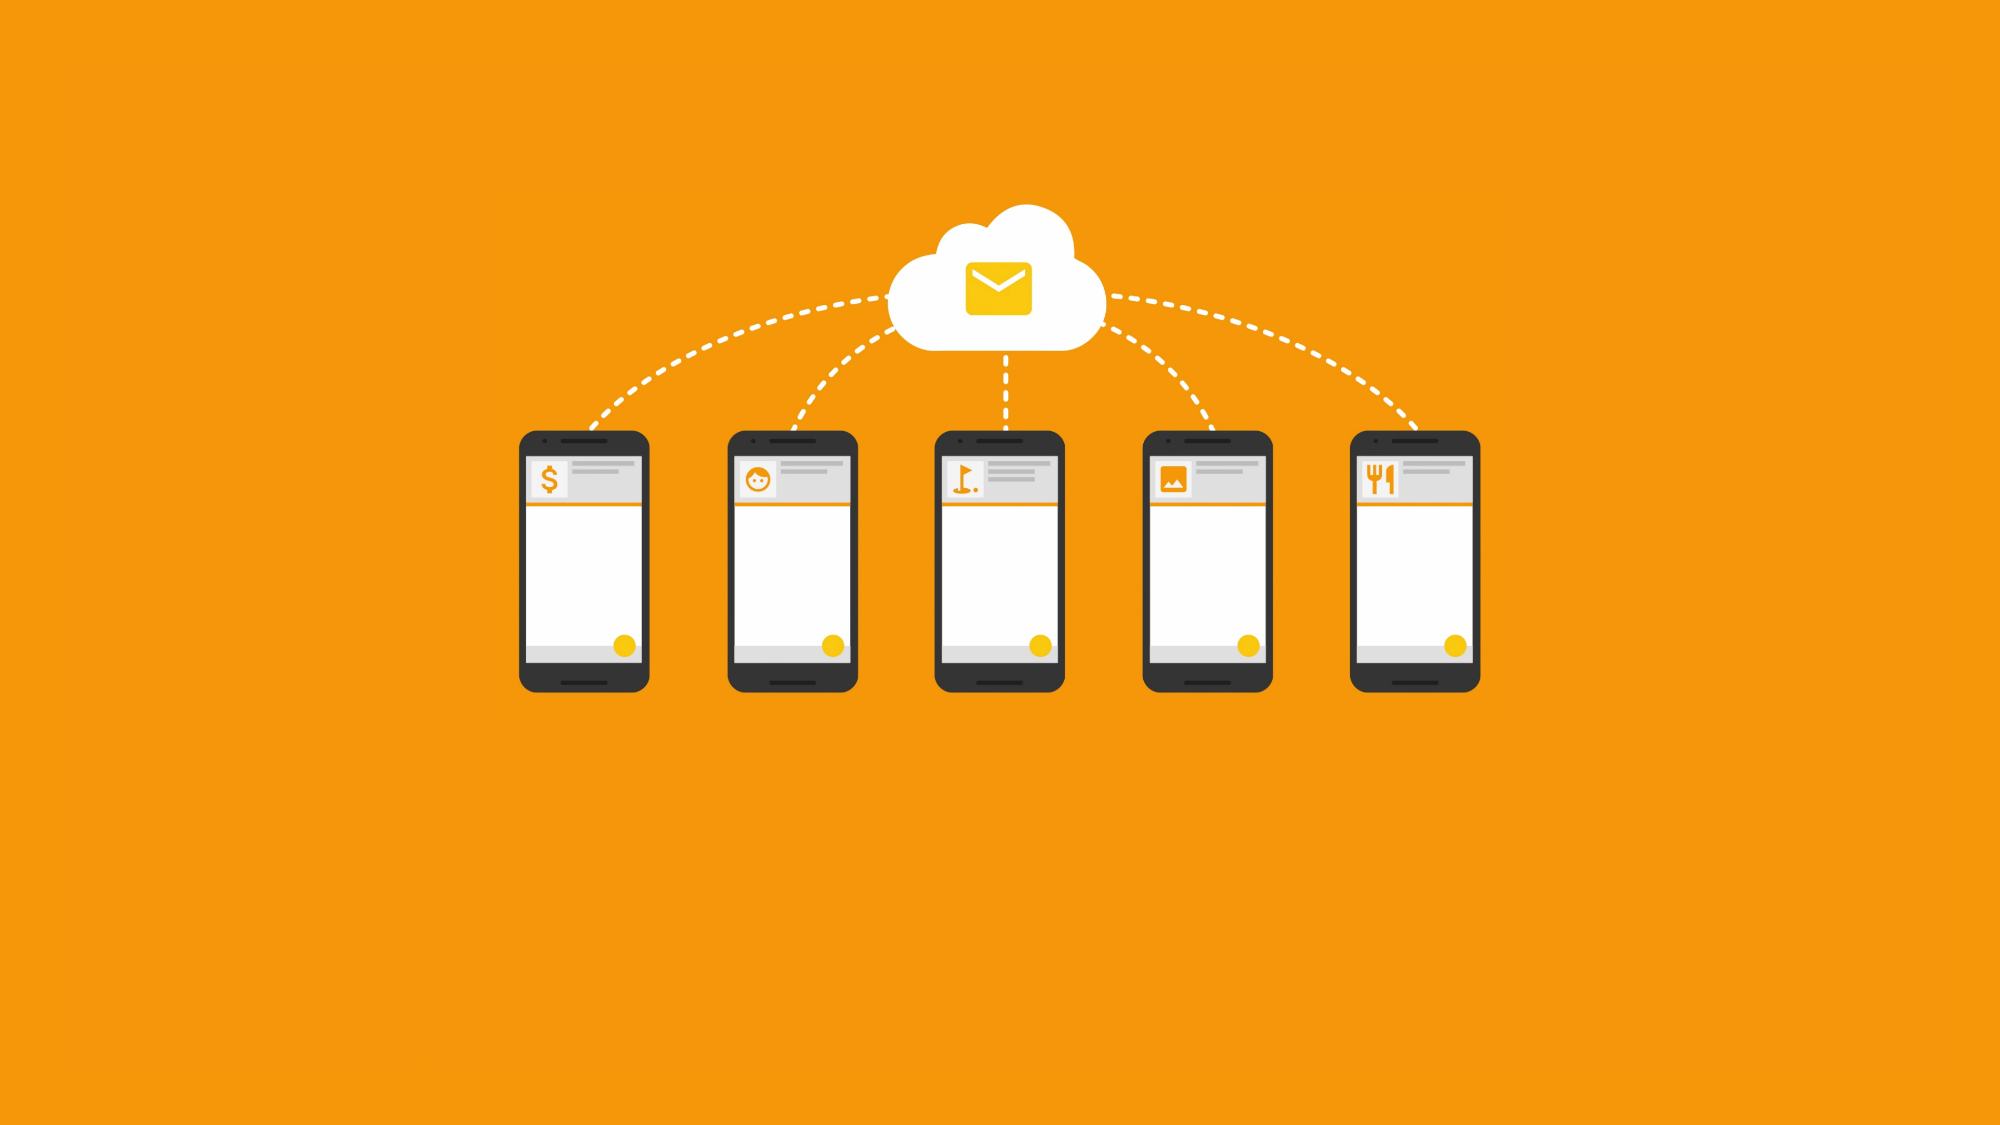
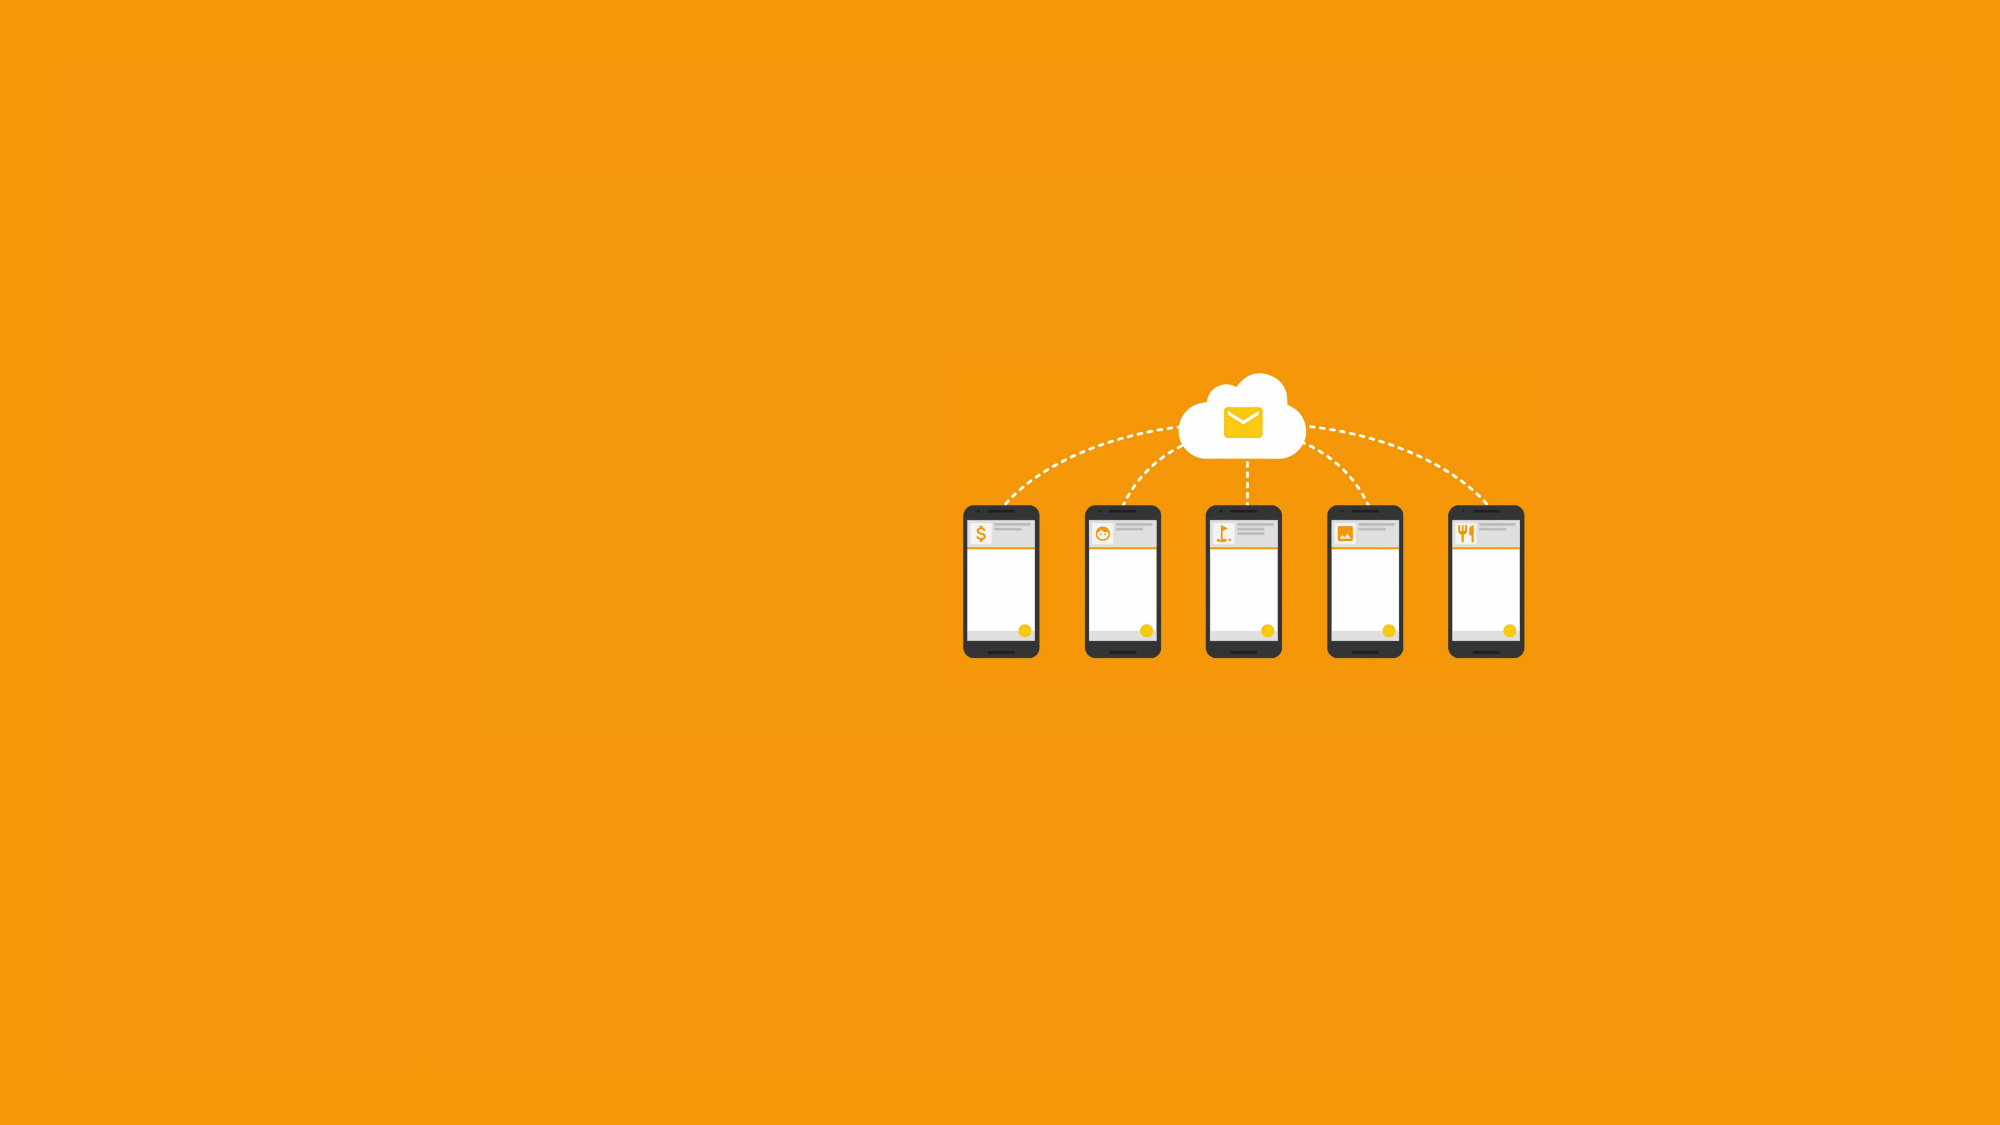
improved experience

Changed region(s): [[0.465, 0.28, 0.775, 0.6222], [0.248, 0.3733, 0.434, 0.6222], [0.403, 0.1867, 0.589, 0.3111]]

diff --git a/index.html b/index.html
@@ -58,34 +58,16 @@
 
         <div class="container">
             <div class="row">
-                <div class="mbr-section col-md-10 col-md-offset-1 text-xs-center">
-
-                    <br>
-                    <br>
-                    <br>
-                    <br>
-                    <br>
-                    <br>
-                    <br>
-                    <br>
-                    <br>
-                    <br>
-                    <br>
-                    <br>
-                    <br>
-                    <br>
+                <div class="mbr-section col-md-5 text-xs-right">
                     <br>
 
-                    <h1 class="mbr-section-title display-1">Cloud Short Messaging - Designed for Developers</h1>
+                    <h1 class="mbr-section-title display-1" style="letter-spacing: 1px;">Cloud Short Messaging<br>Designed for Developers</h1>
                     <p class="mbr-section-lead lead"></p>
-                    <div class="mbr-section-btn" style="margin-top:50px">
+                    <div class="mbr-section-btn">
                         <a class="btn btn-md" href="https://github.com/msgque/msgque" style='color: #7c8287;
     background: #F1F1F1;' ><i style='color:black' class="socicon socicon-github"></i> Download</a>
                         <a class="btn btn-md" href="https://github.com/MSGQue/msgque/wiki/Docs" style='color: #7c8287;
     background: #F1F1F1;'><i class="socicon socicon-stackoverflow" style='color:black' ></i>  Quick Start</a>
-
-
-
                     </div>
                 </div>
             </div>
